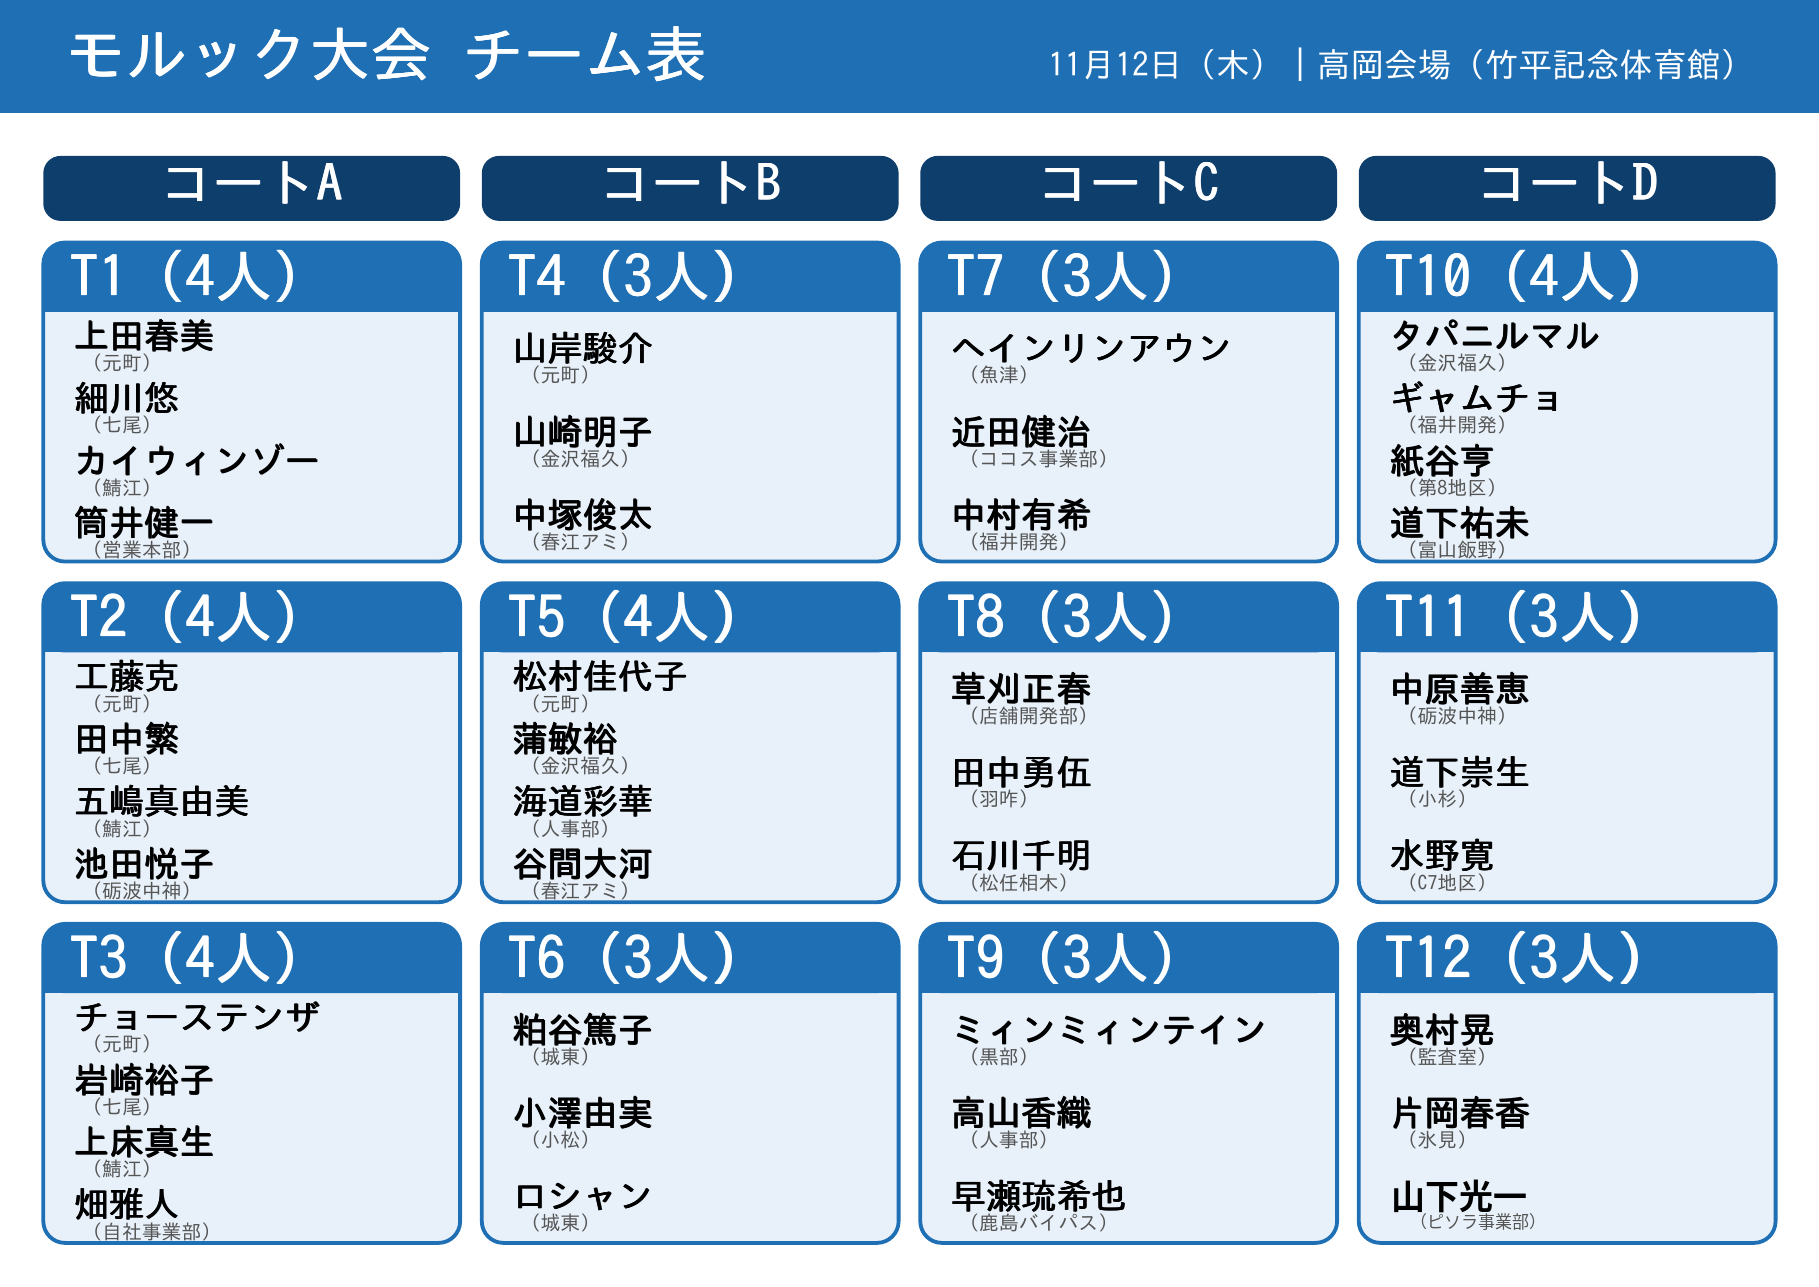
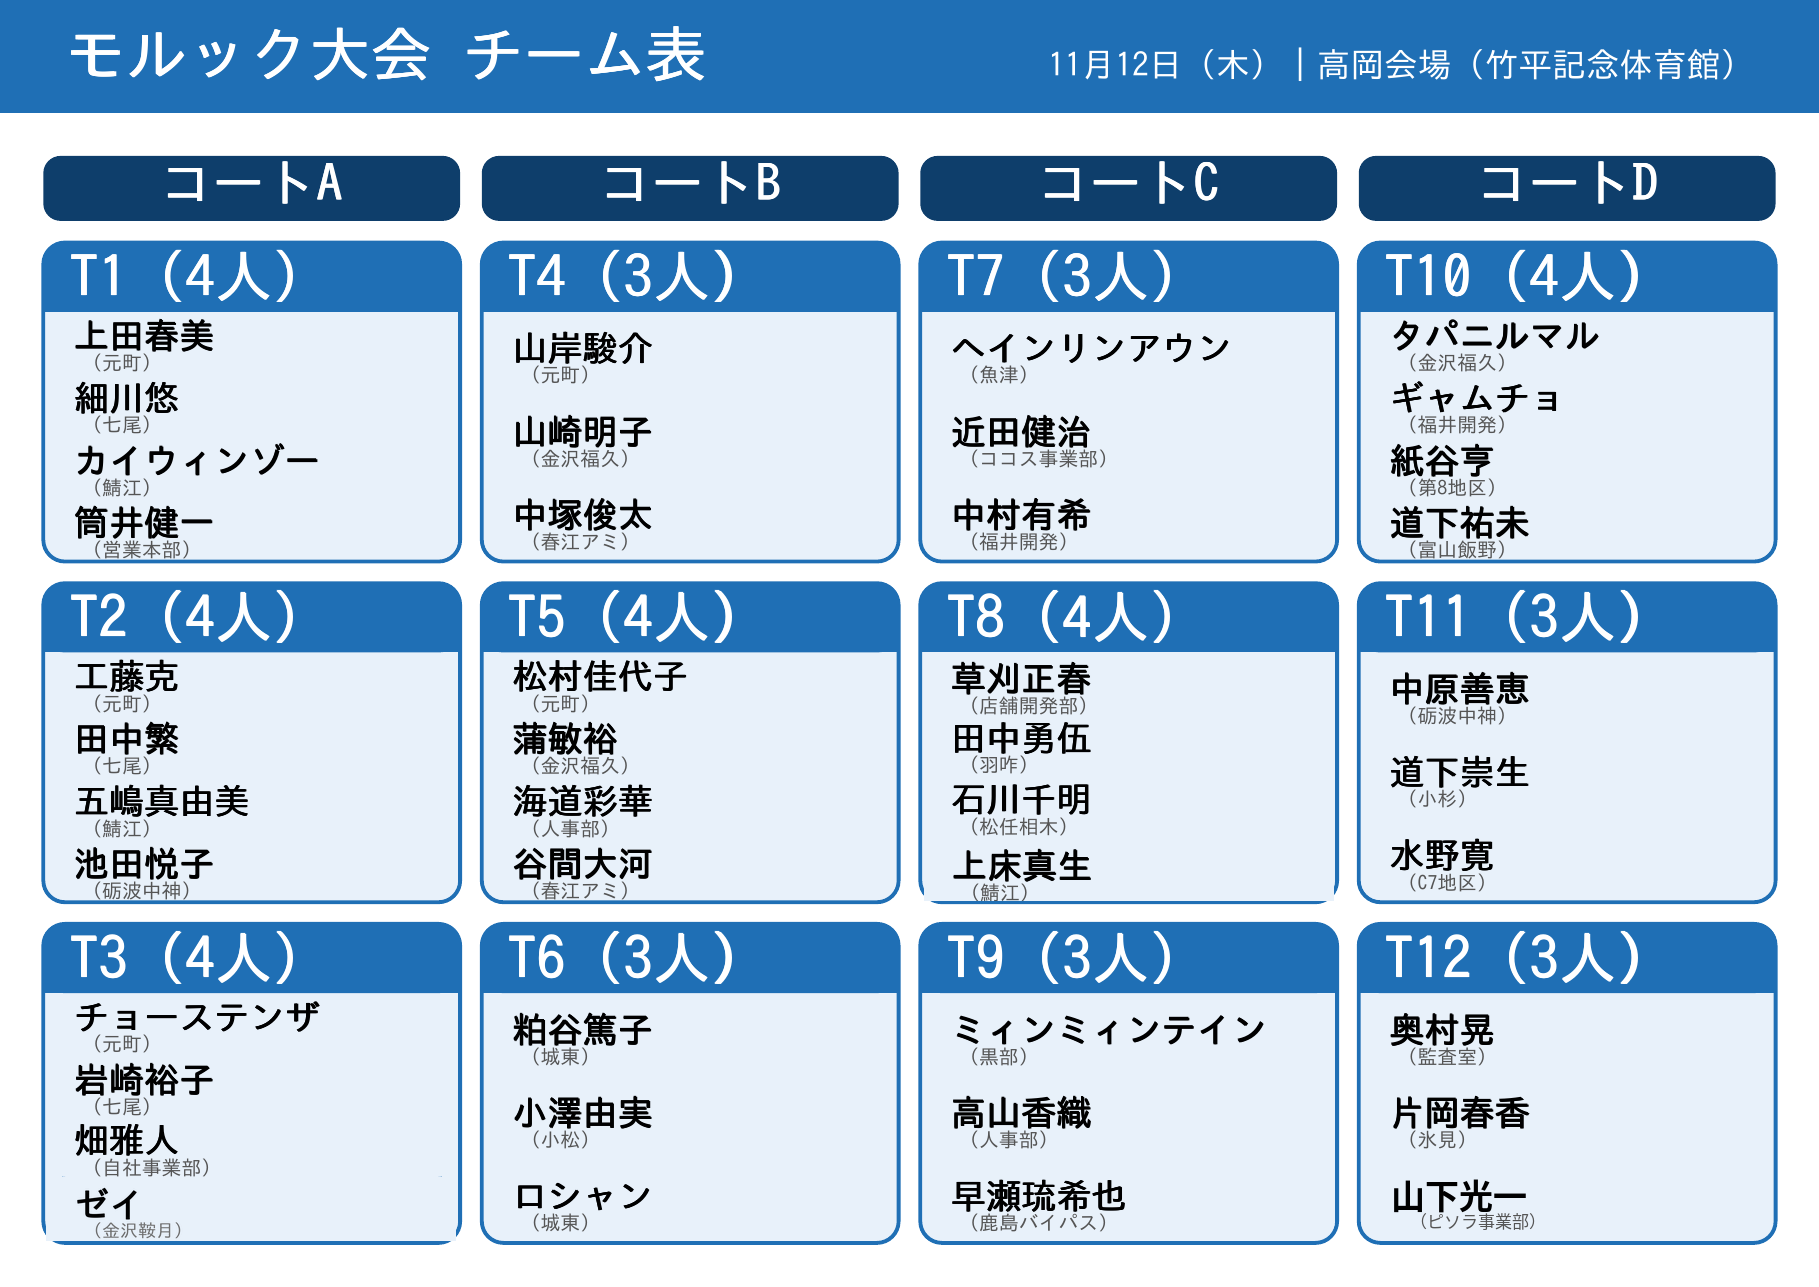
高岡会場: ゼイさん(金沢鞍月店)追加に伴うチーム表・座席表の更新
モルックT3にゼイ追加・上床をT8へ、懇親会 近田→23卓、中村有希→34卓、ゼイ→24卓。

Claude-Session: https://claude.ai/code/session_016S7BshWbzcQ4GyMD7Wr78B

Changed region(s): [[0.5234, 0.4662, 0.6157, 0.7148], [0.0308, 0.8702, 0.1231, 0.9635]]

diff --git a/event/takaoka/index.html b/event/takaoka/index.html
@@ -73,7 +73,7 @@ footer{text-align:center;font-size:13px;color:#666;padding:20px 12px 40px}
 <div id="tres"></div>
 <h3>チーム表（画像）</h3>
 <span class="btn" data-z="team">🔍 拡大／縮小</span>
-<div id="teamimgs"><h3>チーム表（1/2）</h3><div class="zoom"><img src="team-1.png?v=20261110b" alt="チーム表（1/2）"></div><h3>対戦表（2/2）</h3><div class="zoom"><img src="team-2.png" alt="対戦表（2/2）"></div></div>
+<div id="teamimgs"><h3>チーム表（1/2）</h3><div class="zoom"><img src="team-1.png?v=20261110d" alt="チーム表（1/2）"></div><h3>対戦表（2/2）</h3><div class="zoom"><img src="team-2.png" alt="対戦表（2/2）"></div></div>
 <p class="hint">画像は指でスクロールすると全体が見られます。「拡大／縮小」で大きさを変えられます。</p></section>
 
 <section id="seat"><h2>懇親会の座席表</h2>
@@ -83,7 +83,7 @@ footer{text-align:center;font-size:13px;color:#666;padding:20px 12px 40px}
 <div id="res"></div>
 <h3>座席表（全体）</h3>
 <span class="btn" data-z="seat">🔍 拡大／縮小</span>
-<div class="zoom" id="seatzoom"><img src="seat-1.png?v=20261110b" alt="懇親会 座席表"></div>
+<div class="zoom" id="seatzoom"><img src="seat-1.png?v=20261110d" alt="懇親会 座席表"></div>
 <p class="hint">席はスタッフがご案内します。お席のご都合・体調などは、お近くのスタッフへお知らせください。</p></section>
 
 <section id="survey"><h2>アンケート</h2>
@@ -119,8 +119,8 @@ footer{text-align:center;font-size:13px;color:#666;padding:20px 12px 40px}
 <footer>ファイブスター労働組合｜労使共同イベント</footer>
 <script>
 var SURVEY_URL="https://forms.gle/e9n7PZBZQ5QafZvP6";   // ←アンケート確定後にここへURLを入れる
-var TEAM=[{"label": "T1（4人）", "court": "コートA", "members": ["上田春美（元町）", "細川悠（七尾）", "カイウィンゾー（鯖江）", "筒井健一（営業本部）"], "games": ["1試合目 13:15〜13:35　コートA　対 T2", "2試合目 13:40〜14:00　コートA　対 T3", "3試合目 14:05〜14:25　コートA　お休み（得点の記録・スキットル立て直し）"]}, {"label": "T2（4人）", "court": "コートA", "members": ["工藤克（元町）", "田中繁（七尾）", "五嶋真由美（鯖江）", "池田悦子（砺波中神）"], "games": ["1試合目 13:15〜13:35　コートA　対 T1", "2試合目 13:40〜14:00　コートA　お休み（得点の記録・スキットル立て直し）", "3試合目 14:05〜14:25　コートA　対 T3"]}, {"label": "T3（4人）", "court": "コートA", "members": ["チョーステンザ（元町）", "岩崎裕子（七尾）", "上床真生（鯖江）", "畑雅人（自社事業部）"], "games": ["1試合目 13:15〜13:35　コートA　お休み（得点の記録・スキットル立て直し）", "2試合目 13:40〜14:00　コートA　対 T1", "3試合目 14:05〜14:25　コートA　対 T2"]}, {"label": "T4（3人）", "court": "コートB", "members": ["山岸駿介（元町）", "山崎明子（金沢福久）", "中塚俊太（春江アミ）"], "games": ["1試合目 13:15〜13:35　コートB　対 T5", "2試合目 13:40〜14:00　コートB　対 T6", "3試合目 14:05〜14:25　コートB　お休み（得点の記録・スキットル立て直し）"]}, {"label": "T5（4人）", "court": "コートB", "members": ["松村佳代子（元町）", "蒲敏裕（金沢福久）", "海道彩華（人事部）", "谷間大河（春江アミ）"], "games": ["1試合目 13:15〜13:35　コートB　対 T4", "2試合目 13:40〜14:00　コートB　お休み（得点の記録・スキットル立て直し）", "3試合目 14:05〜14:25　コートB　対 T6"]}, {"label": "T6（3人）", "court": "コートB", "members": ["粕谷篤子（城東）", "小澤由実（小松）", "ロシャン（城東）"], "games": ["1試合目 13:15〜13:35　コートB　お休み（得点の記録・スキットル立て直し）", "2試合目 13:40〜14:00　コートB　対 T4", "3試合目 14:05〜14:25　コートB　対 T5"]}, {"label": "T7（3人）", "court": "コートC", "members": ["ヘインリンアウン（魚津）", "近田健治（ココス事業部）", "中村有希（福井開発）"], "games": ["1試合目 13:15〜13:35　コートC　対 T8", "2試合目 13:40〜14:00　コートC　対 T9", "3試合目 14:05〜14:25　コートC　お休み（得点の記録・スキットル立て直し）"]}, {"label": "T8（3人）", "court": "コートC", "members": ["草刈正春（店舗開発部）", "田中勇伍（羽咋）", "石川千明（松任相木）"], "games": ["1試合目 13:15〜13:35　コートC　対 T7", "2試合目 13:40〜14:00　コートC　お休み（得点の記録・スキットル立て直し）", "3試合目 14:05〜14:25　コートC　対 T9"]}, {"label": "T9（3人）", "court": "コートC", "members": ["ミィンミィンテイン（黒部）", "高山香織（人事部）", "早瀬琉希也（鹿島バイパス）"], "games": ["1試合目 13:15〜13:35　コートC　お休み（得点の記録・スキットル立て直し）", "2試合目 13:40〜14:00　コートC　対 T7", "3試合目 14:05〜14:25　コートC　対 T8"]}, {"label": "T10（4人）", "court": "コートD", "members": ["タパニルマル（金沢福久）", "ギャムチョ（福井開発）", "紙谷亨（第8地区）", "道下祐未（富山飯野）"], "games": ["1試合目 13:15〜13:35　コートD　対 T11", "2試合目 13:40〜14:00　コートD　対 T12", "3試合目 14:05〜14:25　コートD　お休み（得点の記録・スキットル立て直し）"]}, {"label": "T11（3人）", "court": "コートD", "members": ["中原善恵（砺波中神）", "道下崇生（小杉）", "水野寛（C7地区）"], "games": ["1試合目 13:15〜13:35　コートD　対 T10", "2試合目 13:40〜14:00　コートD　お休み（得点の記録・スキットル立て直し）", "3試合目 14:05〜14:25　コートD　対 T12"]}, {"label": "T12（3人）", "court": "コートD", "members": ["奥村晃（監査室）", "片岡春香（氷見）", "山下光一（ピソラ事業部）"], "games": ["1試合目 13:15〜13:35　コートD　お休み（得点の記録・スキットル立て直し）", "2試合目 13:40〜14:00　コートD　対 T10", "3試合目 14:05〜14:25　コートD　対 T11"]}];
-var SEAT={"24": {"seats": 6, "names": ["工藤克", "チョーステンザ", "近田健治", "上田春美", "山岸駿介", "松村佳代子"]}, "23": {"seats": 6, "names": ["田中勇伍", "細川悠", "石川千明", "田中繁", "岩崎裕子", "中村有希"]}, "22": {"seats": 6, "names": ["ミィンミィンテイン", "奥村晃", "道下祐未", "和田裕司", "道下崇生", "ヘインリンアウン"]}, "21": {"seats": 6, "names": ["小澤由実", "瀧本哲央", "早瀬琉希也", "山崎明子", "水野寛", "草刈正春"]}, "28": {"seats": 2, "names": ["谷間大河", "中塚俊太"]}, "27": {"seats": 2, "names": ["紙谷亨", "畑雅人"]}, "26": {"seats": 2, "names": ["中原善恵", "池田悦子"]}, "25": {"seats": 2, "names": ["粕谷篤子", "ロシャン"]}, "34": {"seats": 2, "names": ["筒井健一"]}, "33": {"seats": 2, "names": ["ラマギャムチョ", "海道彩華"]}, "32": {"seats": 2, "names": ["蒲敏裕", "タパニルマル"]}, "31": {"seats": 2, "names": ["乾満", "高山香織"]}, "35": {"seats": 4, "names": ["カイウィンゾー", "上床真生", "五嶋真由美", "片岡春香"]}};
+var TEAM=[{"label": "T1（4人）", "court": "コートA", "members": ["上田春美（元町）", "細川悠（七尾）", "カイウィンゾー（鯖江）", "筒井健一（営業本部）"], "games": ["1試合目 13:15〜13:35　コートA　対 T2", "2試合目 13:40〜14:00　コートA　対 T3", "3試合目 14:05〜14:25　コートA　お休み（得点の記録・スキットル立て直し）"]}, {"label": "T2（4人）", "court": "コートA", "members": ["工藤克（元町）", "田中繁（七尾）", "五嶋真由美（鯖江）", "池田悦子（砺波中神）"], "games": ["1試合目 13:15〜13:35　コートA　対 T1", "2試合目 13:40〜14:00　コートA　お休み（得点の記録・スキットル立て直し）", "3試合目 14:05〜14:25　コートA　対 T3"]}, {"label": "T3（4人）", "court": "コートA", "members": ["チョーステンザ（元町）", "岩崎裕子（七尾）", "畑雅人（自社事業部）", "ゼイ（金沢鞍月）"], "games": ["1試合目 13:15〜13:35　コートA　お休み（得点の記録・スキットル立て直し）", "2試合目 13:40〜14:00　コートA　対 T1", "3試合目 14:05〜14:25　コートA　対 T2"]}, {"label": "T4（3人）", "court": "コートB", "members": ["山岸駿介（元町）", "山崎明子（金沢福久）", "中塚俊太（春江アミ）"], "games": ["1試合目 13:15〜13:35　コートB　対 T5", "2試合目 13:40〜14:00　コートB　対 T6", "3試合目 14:05〜14:25　コートB　お休み（得点の記録・スキットル立て直し）"]}, {"label": "T5（4人）", "court": "コートB", "members": ["松村佳代子（元町）", "蒲敏裕（金沢福久）", "海道彩華（人事部）", "谷間大河（春江アミ）"], "games": ["1試合目 13:15〜13:35　コートB　対 T4", "2試合目 13:40〜14:00　コートB　お休み（得点の記録・スキットル立て直し）", "3試合目 14:05〜14:25　コートB　対 T6"]}, {"label": "T6（3人）", "court": "コートB", "members": ["粕谷篤子（城東）", "小澤由実（小松）", "ロシャン（城東）"], "games": ["1試合目 13:15〜13:35　コートB　お休み（得点の記録・スキットル立て直し）", "2試合目 13:40〜14:00　コートB　対 T4", "3試合目 14:05〜14:25　コートB　対 T5"]}, {"label": "T7（3人）", "court": "コートC", "members": ["ヘインリンアウン（魚津）", "近田健治（ココス事業部）", "中村有希（福井開発）"], "games": ["1試合目 13:15〜13:35　コートC　対 T8", "2試合目 13:40〜14:00　コートC　対 T9", "3試合目 14:05〜14:25　コートC　お休み（得点の記録・スキットル立て直し）"]}, {"label": "T8（4人）", "court": "コートC", "members": ["草刈正春（店舗開発部）", "田中勇伍（羽咋）", "石川千明（松任相木）", "上床真生（鯖江）"], "games": ["1試合目 13:15〜13:35　コートC　対 T7", "2試合目 13:40〜14:00　コートC　お休み（得点の記録・スキットル立て直し）", "3試合目 14:05〜14:25　コートC　対 T9"]}, {"label": "T9（3人）", "court": "コートC", "members": ["ミィンミィンテイン（黒部）", "高山香織（人事部）", "早瀬琉希也（鹿島バイパス）"], "games": ["1試合目 13:15〜13:35　コートC　お休み（得点の記録・スキットル立て直し）", "2試合目 13:40〜14:00　コートC　対 T7", "3試合目 14:05〜14:25　コートC　対 T8"]}, {"label": "T10（4人）", "court": "コートD", "members": ["タパニルマル（金沢福久）", "ギャムチョ（福井開発）", "紙谷亨（第8地区）", "道下祐未（富山飯野）"], "games": ["1試合目 13:15〜13:35　コートD　対 T11", "2試合目 13:40〜14:00　コートD　対 T12", "3試合目 14:05〜14:25　コートD　お休み（得点の記録・スキットル立て直し）"]}, {"label": "T11（3人）", "court": "コートD", "members": ["中原善恵（砺波中神）", "道下崇生（小杉）", "水野寛（C7地区）"], "games": ["1試合目 13:15〜13:35　コートD　対 T10", "2試合目 13:40〜14:00　コートD　お休み（得点の記録・スキットル立て直し）", "3試合目 14:05〜14:25　コートD　対 T12"]}, {"label": "T12（3人）", "court": "コートD", "members": ["奥村晃（監査室）", "片岡春香（氷見）", "山下光一（ピソラ事業部）"], "games": ["1試合目 13:15〜13:35　コートD　お休み（得点の記録・スキットル立て直し）", "2試合目 13:40〜14:00　コートD　対 T10", "3試合目 14:05〜14:25　コートD　対 T11"]}];
+var SEAT={"24": {"seats": 6, "names": ["工藤克", "チョーステンザ", "ゼイ", "上田春美", "山岸駿介", "松村佳代子"]}, "23": {"seats": 6, "names": ["田中勇伍", "細川悠", "石川千明", "田中繁", "岩崎裕子", "近田健治"]}, "22": {"seats": 6, "names": ["ミィンミィンテイン", "奥村晃", "道下祐未", "和田裕司", "道下崇生", "ヘインリンアウン"]}, "21": {"seats": 6, "names": ["小澤由実", "瀧本哲央", "早瀬琉希也", "山崎明子", "水野寛", "草刈正春"]}, "28": {"seats": 2, "names": ["谷間大河", "中塚俊太"]}, "27": {"seats": 2, "names": ["紙谷亨", "畑雅人"]}, "26": {"seats": 2, "names": ["中原善恵", "池田悦子"]}, "25": {"seats": 2, "names": ["粕谷篤子", "ロシャン"]}, "34": {"seats": 2, "names": ["筒井健一", "中村有希"]}, "33": {"seats": 2, "names": ["ラマギャムチョ", "海道彩華"]}, "32": {"seats": 2, "names": ["蒲敏裕", "タパニルマル"]}, "31": {"seats": 2, "names": ["乾満", "高山香織"]}, "35": {"seats": 4, "names": ["カイウィンゾー", "上床真生", "五嶋真由美", "片岡春香"]}};
 (function(){
  var a=document.getElementById('sv');
  if(SURVEY_URL){a.href=SURVEY_URL;a.className='survey';a.textContent='📝 アンケートに答える（11/15まで）';}
